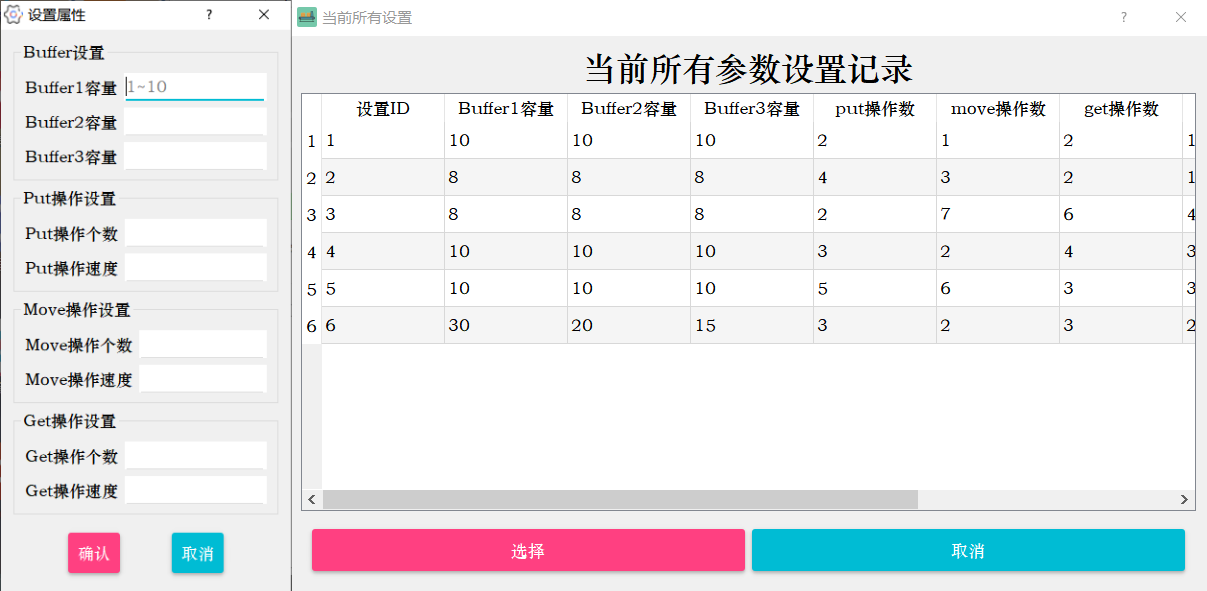
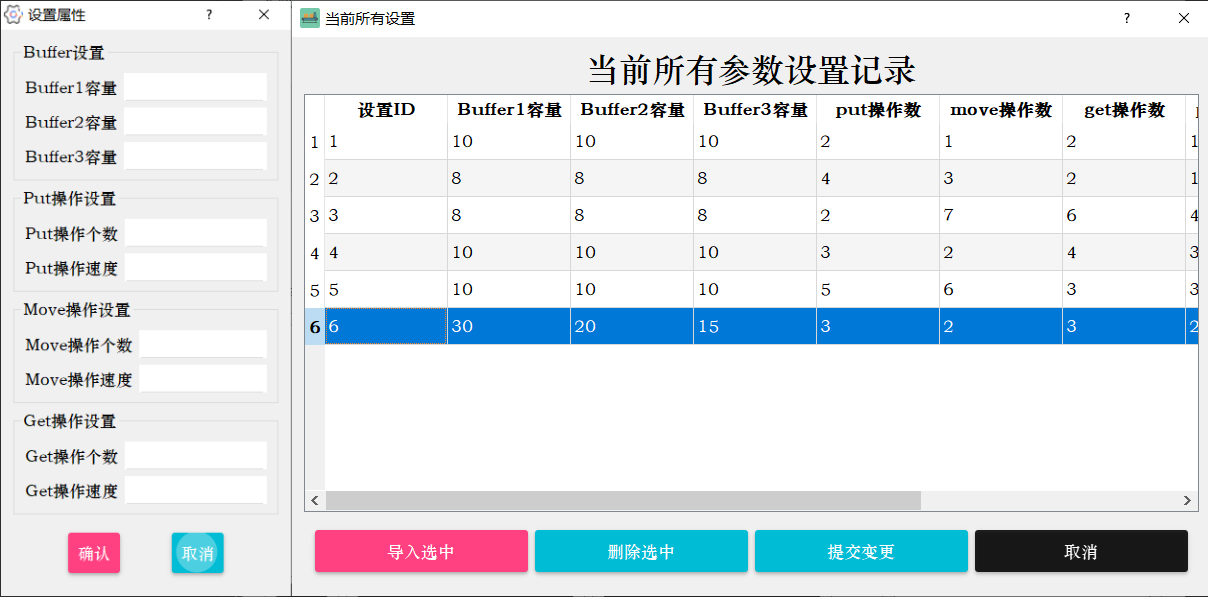
small fix

diff --git a/src/form/daoconfigform.cpp b/src/form/daoconfigform.cpp
@@ -13,7 +13,8 @@ DaoConfigForm::DaoConfigForm(const QString& dbName, QWidget *parent) :
 {
     ui->setupUi(this);
     ui->btnChose->setRole(Material::Secondary);
-    ui->btnCancel->setRole(Material::Primary);
+    ui->btnSubmit->setRole(Material::Primary);
+    ui->btnDelete->setRole(Material::Primary);
     launchFlag = true;
     cfgDao = new ConfigDaoImpl(dbName,this);
     sqlTabModel = new QSqlTableModel(this,cfgDao->db);
@@ -25,6 +26,7 @@ DaoConfigForm::DaoConfigForm(const QString& dbName, QWidget *parent) :
     ui->tableView->setAlternatingRowColors(true);//设置行间交叉颜色
     ui->tableView->setSelectionBehavior(QAbstractItemView::SelectRows);//设置选中模式为选中行
     ui->tableView->setSelectionMode(QAbstractItemView::SingleSelection);//禁止选择多行
+    ui->tableView->setEditTriggers(QAbstractItemView::DoubleClicked);//设置QTableView双击可修改
     sqlTabModel->setHeaderData(0,Qt::Horizontal,"设置ID");
     sqlTabModel->setHeaderData(1,Qt::Horizontal,"Buffer1容量");
     sqlTabModel->setHeaderData(2,Qt::Horizontal,"Buffer2容量");
@@ -60,4 +62,32 @@ void DaoConfigForm::on_btnChose_clicked()
     cfg = cfgDao->findByID(ui->tableView->currentIndex().row()+1);
     emit sendConfig(cfg);
     this->accept();
+}
+
+void DaoConfigForm::on_btnSubmit_clicked()
+{
+    sqlTabModel->submitAll();
+//    sqlTabModel->select();
+}
+
+void DaoConfigForm::on_btnDelete_clicked()
+{
+    QModelIndexList selectedIndex = ui->tableView->selectionModel()->selectedIndexes();
+    if (!selectedIndex.isEmpty()) {
+        QMessageBox::StandardButton button = QMessageBox::question(this,
+            tr("确认删除"), tr("你确定要删除所选行吗?"), QMessageBox::Yes | QMessageBox::No);
+        if (button == QMessageBox::Yes) {
+            //按照row从大到小排序，依次删除，否则行数会乱掉，导致ID错乱
+            std::sort(selectedIndex.begin(), selectedIndex.end(),
+                      [&](const QModelIndex& index1, const QModelIndex& index2)
+                      {return index1.row() > index2.row();});
+            for (const QModelIndex& index : selectedIndex) {
+                sqlTabModel->removeRow(index.row());
+            }
+            sqlTabModel->submitAll();//提交修改
+            sqlTabModel->select();
+        }
+    } else {
+        QMessageBox::information(this, tr("提示"), tr("请至少选择一行进行删除！"));
+    }
 }

diff --git a/src/form/chartform.cpp b/src/form/chartform.cpp
@@ -23,7 +23,7 @@ ChartForm::ChartForm(const ChartParam &param, QWidget* parent)
         setGrid(50,std::max({draft1->_data_source->buffers[0]->capacity,
                              draft1->_data_source->buffers[1]->capacity,
                              draft1->_data_source->buffers[2]->capacity}));
-        initLineChart(3,{"Buffer1","Buffer2","Buffer3"},tr("时间(s)"),tr("数据数量"));
+        initLineChart(3,{"Buffer1","Buffer2","Buffer3"},tr("时间(ms)"),tr("数据数量"));
         connect(timerRefresh,&QTimer::timeout,this,&ChartForm::drawChart_type1);
         break;
     }

diff --git a/src/form/daoconfigform.h b/src/form/daoconfigform.h
@@ -32,6 +32,10 @@ private:
 private slots:
     void on_btnChose_clicked();
 
+    void on_btnSubmit_clicked();
+
+    void on_btnDelete_clicked();
+
 private:
     Ui::DaoConfigForm *ui;
     QSqlTableModel* sqlTabModel;
